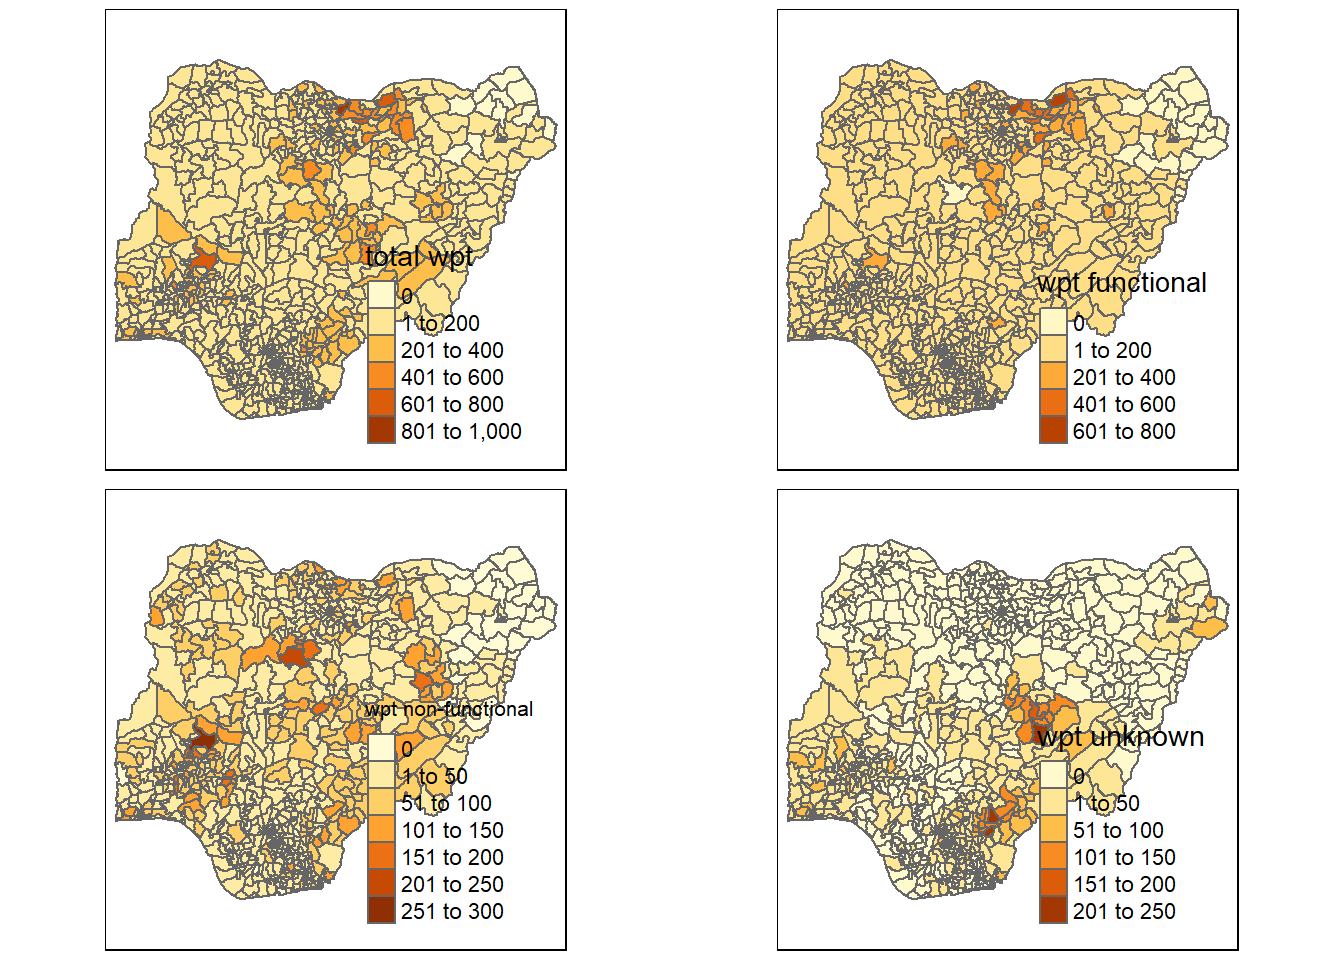
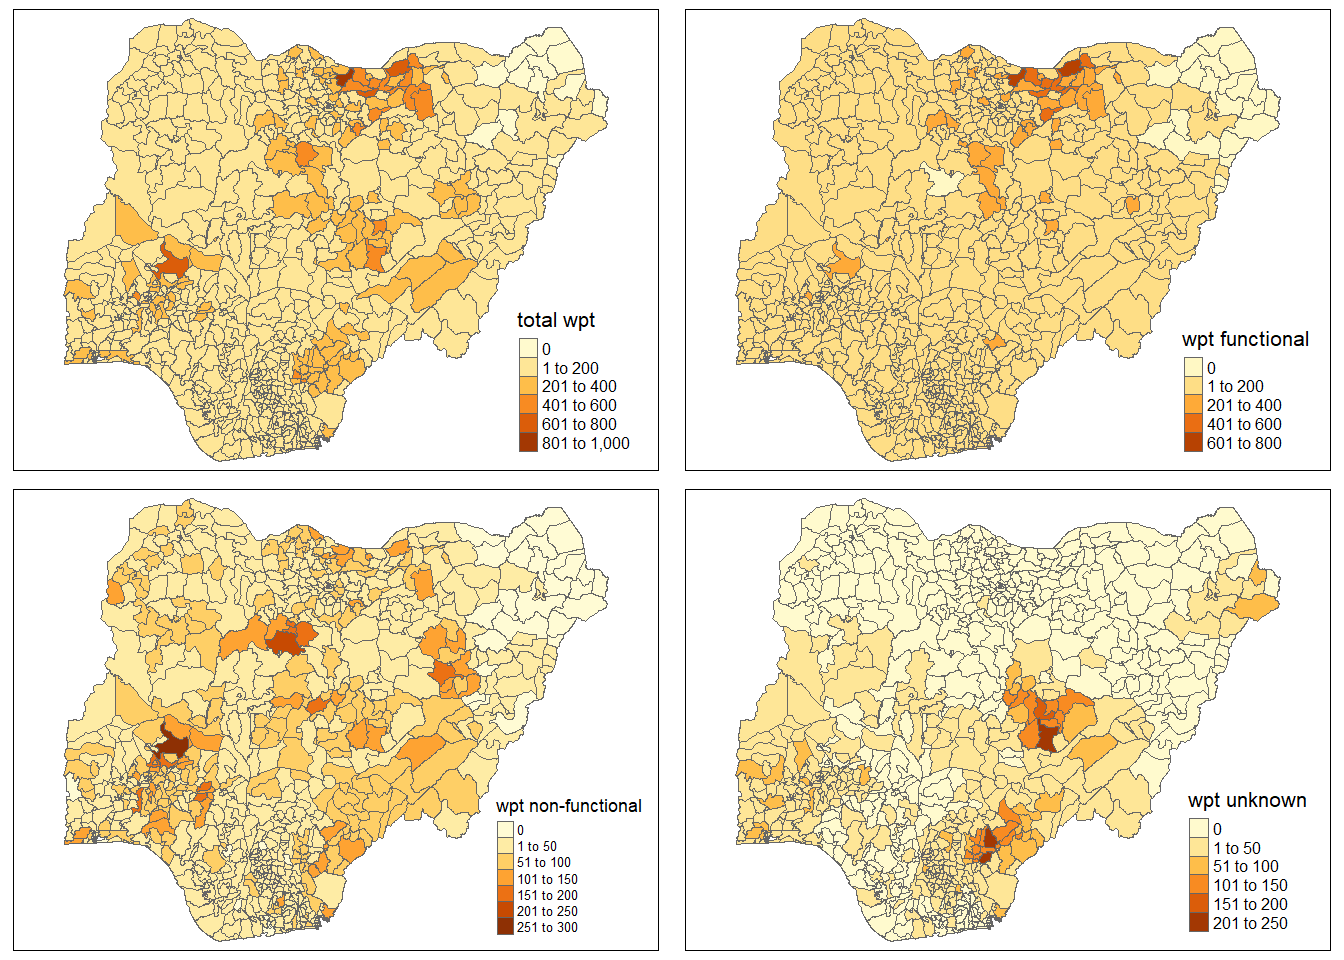
In-class Exercise 2.2

diff --git a/_site/In-class_Ex/In-class_Ex2.html b/_site/In-class_Ex/In-class_Ex2.html
@@ -218,7 +218,7 @@ code span.wa { color: #60a0b0; font-weight: bold; font-style: italic; } /* Warni
   </ul></li>
   <li><a href="#extracting-water-point-data" id="toc-extracting-water-point-data" class="nav-link" data-scroll-target="#extracting-water-point-data">Extracting Water Point Data</a>
   <ul class="collapse">
-  <li><a href="#extracting-funtional-water-point" id="toc-extracting-funtional-water-point" class="nav-link" data-scroll-target="#extracting-funtional-water-point">Extracting funtional water point</a></li>
+  <li><a href="#extracting-functional-water-point" id="toc-extracting-functional-water-point" class="nav-link" data-scroll-target="#extracting-functional-water-point">Extracting functional water point</a></li>
   <li><a href="#exploratory-data-analysis-functional" id="toc-exploratory-data-analysis-functional" class="nav-link" data-scroll-target="#exploratory-data-analysis-functional">Exploratory Data Analysis (functional)</a></li>
   <li><a href="#extracting-non-functional-water-point" id="toc-extracting-non-functional-water-point" class="nav-link" data-scroll-target="#extracting-non-functional-water-point">Extracting non-functional water point</a></li>
   <li><a href="#exploratory-data-analysis-non-functional" id="toc-exploratory-data-analysis-non-functional" class="nav-link" data-scroll-target="#exploratory-data-analysis-non-functional">Exploratory Data Analysis (non-functional)</a></li>
@@ -226,7 +226,7 @@ code span.wa { color: #60a0b0; font-weight: bold; font-style: italic; } /* Warni
   </ul></li>
   <li><a href="#performing-point-in-polygon-count" id="toc-performing-point-in-polygon-count" class="nav-link" data-scroll-target="#performing-point-in-polygon-count">Performing Point-in-Polygon Count</a></li>
   <li><a href="#saving-the-analytical-data-table" id="toc-saving-the-analytical-data-table" class="nav-link" data-scroll-target="#saving-the-analytical-data-table">Saving the Analytical Data Table</a></li>
-  <li><a href="#visualising-the-spatial-dsitribution-of-water-points" id="toc-visualising-the-spatial-dsitribution-of-water-points" class="nav-link" data-scroll-target="#visualising-the-spatial-dsitribution-of-water-points">Visualising the spatial dsitribution of water points</a></li>
+  <li><a href="#visualising-the-spatial-distribution-of-water-points" id="toc-visualising-the-spatial-distribution-of-water-points" class="nav-link" data-scroll-target="#visualising-the-spatial-distribution-of-water-points">Visualising the spatial distribution of water points</a></li>
   </ul>
 </nav>
     </div>
@@ -272,7 +272,7 @@ code span.wa { color: #60a0b0; font-weight: bold; font-style: italic; } /* Warni
 <p>In this in-class exercise, two geospatial data sets will be used, they:</p>
 <ul>
 <li><p><code>geo_export</code></p></li>
-<li><p><code>nga_admbnda_adm2_osgof_20190417</code></p></li>
+<li><p><code>geoBoundaries-NGA-ADM2</code></p></li>
 </ul>
 <section id="importing-water-point-geospatial-data" class="level3">
 <h3 class="anchored" data-anchor-id="importing-water-point-geospatial-data">Importing water point geospatial data</h3>
@@ -308,7 +308,7 @@ Geodetic CRS:  WGS 84</code></pre>
 </section>
 <section id="importing-nigeria-lga-boundary-data" class="level3">
 <h3 class="anchored" data-anchor-id="importing-nigeria-lga-boundary-data">Importing Nigeria LGA boundary data</h3>
-<p>Now, we are going to import the LGA boundary data into R environment by using the code chunk below.</p>
+<p>Now, we are going to import the Local Government Area (LGA) boundary data into R environment by using the code chunk below.</p>
 <div class="cell">
 <div class="sourceCode cell-code" id="cb5"><pre class="sourceCode r code-with-copy"><code class="sourceCode r"><span id="cb5-1"><a href="#cb5-1" aria-hidden="true" tabindex="-1"></a>nga <span class="ot">&lt;-</span> <span class="fu">st_read</span>(<span class="at">dsn =</span> <span class="st">"data"</span>,</span>
 <span id="cb5-2"><a href="#cb5-2" aria-hidden="true" tabindex="-1"></a>               <span class="at">layer =</span> <span class="st">"geoBoundaries-NGA-ADM2"</span>,</span>
@@ -366,8 +366,8 @@ Geodetic CRS:  WGS 84</code></pre>
 <section id="extracting-water-point-data" class="level2">
 <h2 class="anchored" data-anchor-id="extracting-water-point-data">Extracting Water Point Data</h2>
 <p>In this section, we will extract the water point records by using classes in <code>status_cle</code> field.</p>
-<section id="extracting-funtional-water-point" class="level3">
-<h3 class="anchored" data-anchor-id="extracting-funtional-water-point">Extracting funtional water point</h3>
+<section id="extracting-functional-water-point" class="level3">
+<h3 class="anchored" data-anchor-id="extracting-functional-water-point">Extracting functional water point</h3>
 <p>In the code chunk below, <em>filter()</em> of <strong>dplyr</strong> is used to select functional water points.</p>
 <div class="cell">
 <div class="sourceCode cell-code" id="cb10"><pre class="sourceCode r code-with-copy"><code class="sourceCode r"><span id="cb10-1"><a href="#cb10-1" aria-hidden="true" tabindex="-1"></a>wpt_functional <span class="ot">&lt;-</span> wp_nga <span class="sc">%&gt;%</span></span>
@@ -428,7 +428,7 @@ Geodetic CRS:  WGS 84</code></pre>
 </section>
 <section id="extracting-water-point-with-unknown-class" class="level3">
 <h3 class="anchored" data-anchor-id="extracting-water-point-with-unknown-class">Extracting water point with Unknown class</h3>
-<p>In the code chunk below, <em>filter()</em> of <strong>dplyr</strong> is used to select water points with unknown status.</p>
+<p>In the code chunk below, <em>filter()</em> of <strong>dplyr</strong> is used to select water points with <code>unknown</code> status.</p>
 <div class="cell">
 <div class="sourceCode cell-code" id="cb16"><pre class="sourceCode r code-with-copy"><code class="sourceCode r"><span id="cb16-1"><a href="#cb16-1" aria-hidden="true" tabindex="-1"></a>wpt_unknown <span class="ot">&lt;-</span> wp_nga <span class="sc">%&gt;%</span></span>
 <span id="cb16-2"><a href="#cb16-2" aria-hidden="true" tabindex="-1"></a>  <span class="fu">filter</span>(status_cle <span class="sc">==</span> <span class="st">"Unknown"</span>)</span></code><button title="Copy to Clipboard" class="code-copy-button"><i class="bi"></i></button></pre></div>
@@ -437,6 +437,7 @@ Geodetic CRS:  WGS 84</code></pre>
 </section>
 <section id="performing-point-in-polygon-count" class="level2">
 <h2 class="anchored" data-anchor-id="performing-point-in-polygon-count">Performing Point-in-Polygon Count</h2>
+<p>The code chunk below performs two operations at one go. Firstly, identify water points located inside each LGA by using <a href="https://r-spatial.github.io/sf/reference/geos_binary_pred.html"><em>st_intersects()</em></a>. Next, <a href="https://www.rdocumentation.org/packages/base/versions/3.6.2/topics/length"><em>length()</em></a> of Base R is used to calculate numbers of water points that fall inside each LGA.</p>
 <div class="cell">
 <div class="sourceCode cell-code" id="cb17"><pre class="sourceCode r code-with-copy"><code class="sourceCode r"><span id="cb17-1"><a href="#cb17-1" aria-hidden="true" tabindex="-1"></a>nga_wp <span class="ot">&lt;-</span> nga <span class="sc">%&gt;%</span> </span>
 <span id="cb17-2"><a href="#cb17-2" aria-hidden="true" tabindex="-1"></a>  <span class="fu">mutate</span>(<span class="st">`</span><span class="at">total wpt</span><span class="st">`</span> <span class="ot">=</span> <span class="fu">lengths</span>(</span>
@@ -451,31 +452,38 @@ Geodetic CRS:  WGS 84</code></pre>
 </section>
 <section id="saving-the-analytical-data-table" class="level2">
 <h2 class="anchored" data-anchor-id="saving-the-analytical-data-table">Saving the Analytical Data Table</h2>
+<p>The code chunk below computes the proportion of functional and non-functional water point at LGA level.</p>
 <div class="cell">
 <div class="sourceCode cell-code" id="cb18"><pre class="sourceCode r code-with-copy"><code class="sourceCode r"><span id="cb18-1"><a href="#cb18-1" aria-hidden="true" tabindex="-1"></a>nga_wp <span class="ot">&lt;-</span> nga_wp <span class="sc">%&gt;%</span></span>
 <span id="cb18-2"><a href="#cb18-2" aria-hidden="true" tabindex="-1"></a>  <span class="fu">mutate</span>(<span class="at">pct_functional =</span> <span class="st">`</span><span class="at">wpt functional</span><span class="st">`</span><span class="sc">/</span><span class="st">`</span><span class="at">total wpt</span><span class="st">`</span>) <span class="sc">%&gt;%</span></span>
-<span id="cb18-3"><a href="#cb18-3" aria-hidden="true" tabindex="-1"></a>  <span class="fu">mutate</span>(<span class="st">`</span><span class="at">pct_non-functional</span><span class="st">`</span> <span class="ot">=</span> <span class="st">`</span><span class="at">wpt non-functional</span><span class="st">`</span><span class="sc">/</span><span class="st">`</span><span class="at">total wpt</span><span class="st">`</span>)</span></code><button title="Copy to Clipboard" class="code-copy-button"><i class="bi"></i></button></pre></div>
+<span id="cb18-3"><a href="#cb18-3" aria-hidden="true" tabindex="-1"></a>  <span class="fu">mutate</span>(<span class="st">`</span><span class="at">pct_non-functional</span><span class="st">`</span> <span class="ot">=</span> <span class="st">`</span><span class="at">wpt non-functional</span><span class="st">`</span><span class="sc">/</span><span class="st">`</span><span class="at">total wpt</span><span class="st">`</span>) <span class="sc">%&gt;%</span></span>
+<span id="cb18-4"><a href="#cb18-4" aria-hidden="true" tabindex="-1"></a>  <span class="fu">select</span>(<span class="dv">1</span><span class="sc">:</span><span class="dv">2</span>, <span class="dv">6</span><span class="sc">:</span><span class="dv">12</span>)</span></code><button title="Copy to Clipboard" class="code-copy-button"><i class="bi"></i></button></pre></div>
 </div>
 <p>Things to learn from the code chunk above:</p>
 <ul>
 <li><p><em>mutate()</em> of <strong>dplyr</strong> package is used to derive two fields namely <code>pct_functional</code> and <code>pct_non-functional</code>.</p></li>
-<li><p>to keep the file size small, <code>select()</code> of <strong>dplyr</strong> is used to retain only field 3,4,9,10,18,19,20,21,22,and 23.</p></li>
+<li><p>to keep the file size small, <em>select()</em> of <strong>dplyr</strong> is used to retain only field 1, 2, 6, 7, 8, 9, 10, 11 and 12.</p></li>
 </ul>
-<p>Now, wehave the tidy sf data table for subsequent analysis. We will save the sf data table into rds format.</p>
+<p>Now, we have the tidy sf data table for subsequent analysis. We will save the sf data table into rds format.</p>
 <div class="cell">
 <div class="sourceCode cell-code" id="cb19"><pre class="sourceCode r code-with-copy"><code class="sourceCode r"><span id="cb19-1"><a href="#cb19-1" aria-hidden="true" tabindex="-1"></a><span class="fu">write_rds</span>(nga_wp, <span class="st">"data/nga_wp.rds"</span>)</span></code><button title="Copy to Clipboard" class="code-copy-button"><i class="bi"></i></button></pre></div>
 </div>
 </section>
-<section id="visualising-the-spatial-dsitribution-of-water-points" class="level2">
-<h2 class="anchored" data-anchor-id="visualising-the-spatial-dsitribution-of-water-points">Visualising the spatial dsitribution of water points</h2>
+<section id="visualising-the-spatial-distribution-of-water-points" class="level2">
+<h2 class="anchored" data-anchor-id="visualising-the-spatial-distribution-of-water-points">Visualising the spatial distribution of water points</h2>
+<p>The code below uses <em>qtm()</em> of <strong>tmap</strong> package to plot side-by-side choropleth maps showing various water points distribution by LGA levels in Nigeria.</p>
 <div class="cell">
 <div class="sourceCode cell-code" id="cb20"><pre class="sourceCode r code-with-copy"><code class="sourceCode r"><span id="cb20-1"><a href="#cb20-1" aria-hidden="true" tabindex="-1"></a>nga_wp <span class="ot">&lt;-</span> <span class="fu">read_rds</span>(<span class="st">"data/nga_wp.rds"</span>)</span>
-<span id="cb20-2"><a href="#cb20-2" aria-hidden="true" tabindex="-1"></a>total <span class="ot">&lt;-</span> <span class="fu">qtm</span>(nga_wp, <span class="st">"total wpt"</span>)</span>
-<span id="cb20-3"><a href="#cb20-3" aria-hidden="true" tabindex="-1"></a>wp_functional <span class="ot">&lt;-</span> <span class="fu">qtm</span>(nga_wp, <span class="st">"wpt functional"</span>)</span>
-<span id="cb20-4"><a href="#cb20-4" aria-hidden="true" tabindex="-1"></a>wp_nonfunctional <span class="ot">&lt;-</span> <span class="fu">qtm</span>(nga_wp, <span class="st">"wpt non-functional"</span>)</span>
-<span id="cb20-5"><a href="#cb20-5" aria-hidden="true" tabindex="-1"></a>unknown <span class="ot">&lt;-</span> <span class="fu">qtm</span>(nga_wp, <span class="st">"wpt unknown"</span>)</span>
-<span id="cb20-6"><a href="#cb20-6" aria-hidden="true" tabindex="-1"></a></span>
-<span id="cb20-7"><a href="#cb20-7" aria-hidden="true" tabindex="-1"></a><span class="fu">tmap_arrange</span>(total, wp_functional, wp_nonfunctional, unknown, <span class="at">asp=</span><span class="dv">1</span>, <span class="at">ncol=</span><span class="dv">2</span>)</span></code><button title="Copy to Clipboard" class="code-copy-button"><i class="bi"></i></button></pre></div>
+<span id="cb20-2"><a href="#cb20-2" aria-hidden="true" tabindex="-1"></a>total <span class="ot">&lt;-</span> <span class="fu">qtm</span>(nga_wp, <span class="st">"total wpt"</span>) <span class="sc">+</span></span>
+<span id="cb20-3"><a href="#cb20-3" aria-hidden="true" tabindex="-1"></a>  <span class="fu">tm_layout</span>(<span class="at">scale =</span> <span class="fl">0.7</span>)</span>
+<span id="cb20-4"><a href="#cb20-4" aria-hidden="true" tabindex="-1"></a>wp_functional <span class="ot">&lt;-</span> <span class="fu">qtm</span>(nga_wp, <span class="st">"wpt functional"</span>)<span class="sc">+</span></span>
+<span id="cb20-5"><a href="#cb20-5" aria-hidden="true" tabindex="-1"></a>  <span class="fu">tm_layout</span>(<span class="at">scale =</span> <span class="fl">0.7</span>)</span>
+<span id="cb20-6"><a href="#cb20-6" aria-hidden="true" tabindex="-1"></a>wp_nonfunctional <span class="ot">&lt;-</span> <span class="fu">qtm</span>(nga_wp, <span class="st">"wpt non-functional"</span>)<span class="sc">+</span></span>
+<span id="cb20-7"><a href="#cb20-7" aria-hidden="true" tabindex="-1"></a>  <span class="fu">tm_layout</span>(<span class="at">scale =</span> <span class="fl">0.6</span>)</span>
+<span id="cb20-8"><a href="#cb20-8" aria-hidden="true" tabindex="-1"></a>unknown <span class="ot">&lt;-</span> <span class="fu">qtm</span>(nga_wp, <span class="st">"wpt unknown"</span>)<span class="sc">+</span></span>
+<span id="cb20-9"><a href="#cb20-9" aria-hidden="true" tabindex="-1"></a>  <span class="fu">tm_layout</span>(<span class="at">scale =</span> <span class="fl">0.7</span>)</span>
+<span id="cb20-10"><a href="#cb20-10" aria-hidden="true" tabindex="-1"></a></span>
+<span id="cb20-11"><a href="#cb20-11" aria-hidden="true" tabindex="-1"></a><span class="fu">tmap_arrange</span>(total, wp_functional, wp_nonfunctional, unknown, <span class="at">nrow=</span><span class="dv">2</span>, <span class="at">ncol=</span><span class="dv">2</span>)</span></code><button title="Copy to Clipboard" class="code-copy-button"><i class="bi"></i></button></pre></div>
 <div class="cell-output-display">
 <p><img src="In-class_Ex2_files/figure-html/unnamed-chunk-15-1.png" class="img-fluid" width="672"></p>
 </div>
